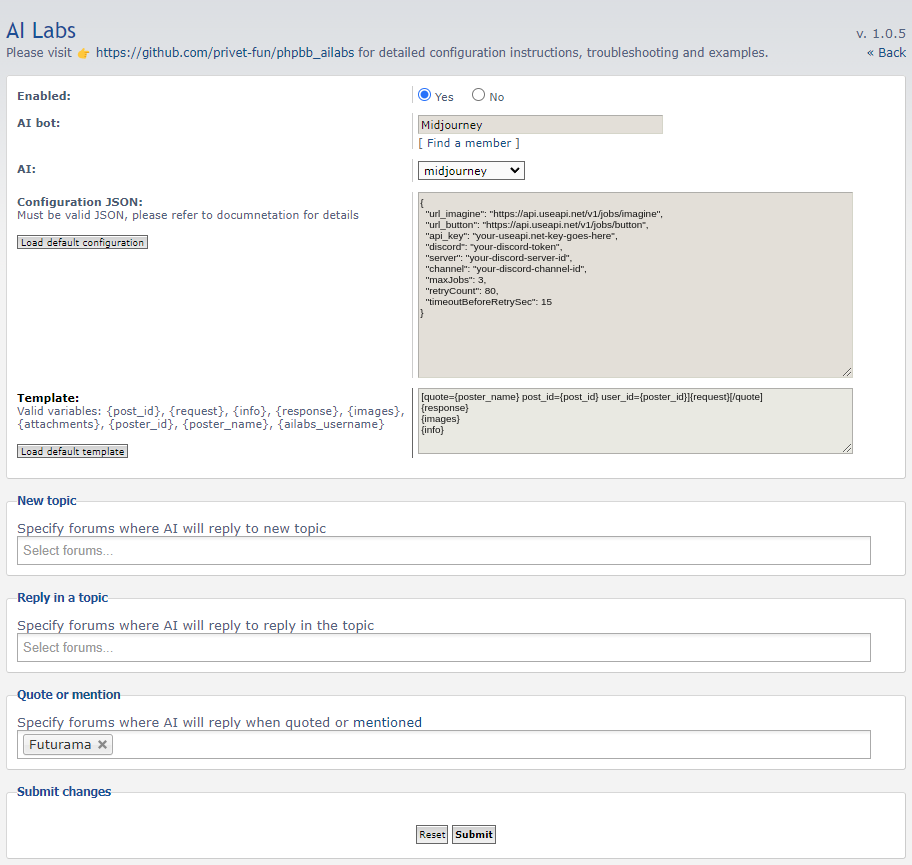
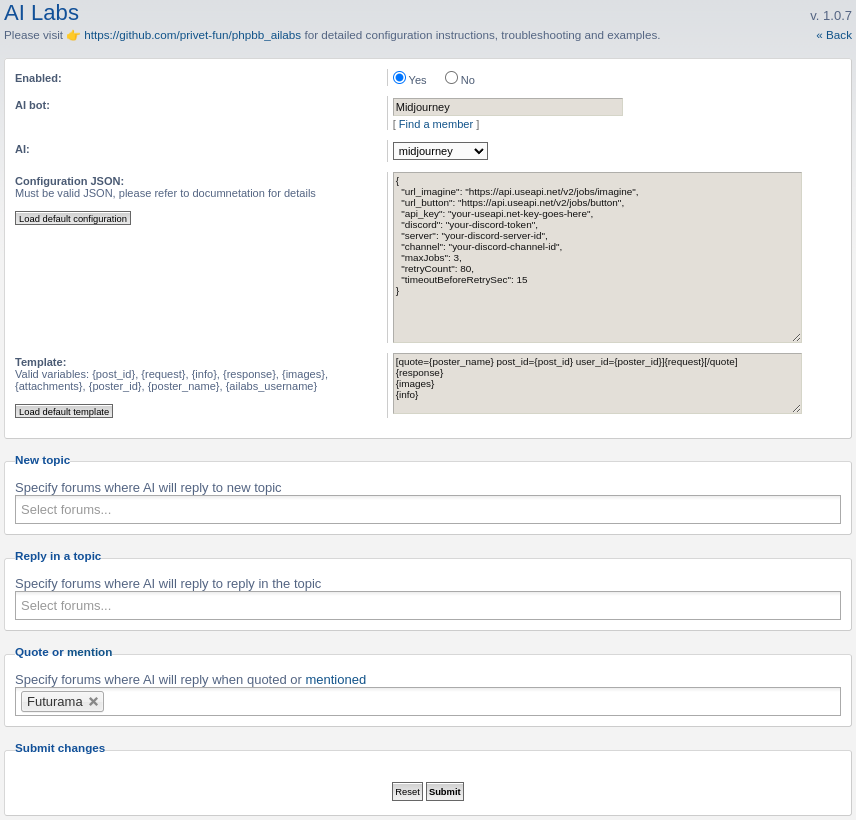
1.0.7

diff --git a/privet/ailabs/adm/style/acp_ailabs_body.html b/privet/ailabs/adm/style/acp_ailabs_body.html
@@ -44,8 +44,8 @@
 	<script type="text/javascript">
 		const defaultConfigs = {
 			"midjourney": {
-				"url_imagine": "https://api.useapi.net/v1/jobs/imagine",
-    			"url_button": "https://api.useapi.net/v1/jobs/button",
+				"url_imagine": "https://api.useapi.net/v2/jobs/imagine",
+    			"url_button": "https://api.useapi.net/v2/jobs/button",
 				"api_key": "your-useapi.net-key-goes-here",
     			"discord": "your-discord-token",
     			"server": "your-discord-server-id",

diff --git a/privet/ailabs/controller/midjourney.php b/privet/ailabs/controller/midjourney.php
@@ -27,8 +27,8 @@ config:
 
 {
     "api_key":                  "<useapi.net api token>",
-    "url_imagine":              "https://api.useapi.net/v1/jobs/imagine",
-    "url_button":               "https://api.useapi.net/v1/jobs/button",
+    "url_imagine":              "https://api.useapi.net/v2/jobs/imagine",
+    "url_button":               "https://api.useapi.net/v2/jobs/button",
     "discord":                  "<Discord token, required>",
     "server":                   "<Discord server id, required>",
     "channel":                  "<Discord channel id, required>",
@@ -92,7 +92,7 @@ class midjourney extends GenericController
 
                 $response_message_id = $this->process_response_message_id($json);
 
-                // https://useapi.net/docs/api-v1/jobs-button
+                // https://useapi.net/docs/api-v2/post-jobs-button
                 // HTTP 409 Conflict
                 // Button <U1 | U2 | U3 | U4> already executed by job <jobid>
                 if (!empty($response_message_id) && !empty($response_codes) && in_array(409, $response_codes)) {
@@ -127,7 +127,7 @@ class midjourney extends GenericController
 
         // Assume the worst
         $this->job['status'] = 'failed';
-        $this->job['response'] = $this->language->lang('AILABS_ERROR_CHECK_LOGS');
+        $this->job['response'] = !empty($json) && !empty($json['error']) ? '[color=#FF0000]' . $json['error'] . '[/color]' : $this->language->lang('AILABS_ERROR_CHECK_LOGS');
 
         if (!empty($json)) {
             if (!empty($json['status']))
@@ -149,7 +149,9 @@ class midjourney extends GenericController
                         $this->job['response'] = preg_replace('/<@(\d+)>/', '', $json['content']);
                         break;
                     case 422: // HTTP 422 Unprocessable Content - Moderated                    
-                        $this->job['response'] = $this->language->lang('AILABS_MJ_MODERATED');
+                        $this->job['response'] = 
+'[color=#FF0000]' . $json['error'] . '
+' . $json['errorDetails'] . '[/color]';
                         break;
                 }
         }
@@ -247,27 +249,39 @@ class midjourney extends GenericController
 
         if (!empty($parent_job)) {
             $log = json_decode($parent_job['log'], true);
+            $prompt = null;
+            $button = $request;
 
-            // https://useapi.net/docs/api-v1/jobs-button
+            $custom_zoom = 'Custom Zoom';
+            $custom_zoom_len = strlen($custom_zoom);
+            if (substr($request, 0, $custom_zoom_len) === $custom_zoom) {
+                $button = $custom_zoom;
+                $prompt = trim(substr($request, $custom_zoom_len));
+            }
+
+            // https://useapi.net/docs/api-v2/post-jobs-button
             if (
                 !empty($log) &&
                 !empty($log['response.json']) &&
                 !empty($log['response.json']['jobid']) &&
                 !empty($log['response.json']['buttons']) &&
-                in_array($request, $log['response.json']['buttons'], true)
+                in_array($button, $log['response.json']['buttons'], true)
             ) {
                 $payload = [
                     'jobid'     => $log['response.json']['jobid'],
-                    'button'    => $request,
+                    'button'    => $button,
                     'discord'   => $this->cfg->discord,
                     'maxJobs'   => $maxJobs,
                     'replyUrl'  => $url_callback,
                     'replyRef'  => $this->job_id,
                 ];
+
+                if (!empty($prompt))
+                    $payload += ['prompt' => $prompt];
             }
         }
 
-        // https://useapi.net/docs/api-v1/jobs-imagine
+        // https://useapi.net/docs/api-v2/post-jobs-imagine
         if (empty($payload)) {
             $payload = [
                 'prompt'                => $request,
@@ -299,8 +313,8 @@ class midjourney extends GenericController
 
         $count  = 0;
         $response = null;
-        // https://useapi.net/docs/api-v1/jobs-imagine
-        // https://useapi.net/docs/api-v1/jobs-button
+        // https://useapi.net/docs/api-v2/post-jobs-imagine
+        // https://useapi.net/docs/api-v2/post-jobs-button
         $url = empty($opts['jobid']) ? $this->cfg->url_imagine : $this->cfg->url_button;
 
         // Attempt to submit request for (retryCount * timeoutBeforeRetrySec) seconds.
@@ -310,8 +324,7 @@ class midjourney extends GenericController
             $response = $api->sendRequest($url, 'POST', $opts);
         } while (
             // 429: Maximum of xx jobs executing in parallel supported
-            // 504: Unable to lock Discord after xx attempts
-            (in_array(429, $api->responseCodes) || in_array(504, $api->responseCodes)) &&
+            in_array(429, $api->responseCodes) &&
             $count < $retryCount &&
             sleep($timeoutBeforeRetrySec) !== false
         );

diff --git a/privet/ailabs/language/ru/common.php b/privet/ailabs/language/ru/common.php
@@ -18,10 +18,9 @@ if (empty($lang) || !is_array($lang)) {
 }
 
 $lang = array_merge($lang, [
-	'AILABS_MJ_BUTTONS'				=> 'Ответьте, процитировав одну из поддерживаемых команд [size=70][url=https://docs.midjourney.com/docs/quick-start#8-upscale-or-create-variations]1[/url] [url=https://docs.midjourney.com/docs/quick-start#9-enhance-or-modify-your-image]2[/url][/size]: ',
+	'AILABS_MJ_BUTTONS'				=> 'Ответьте, процитировав одну из поддерживаемых команд [size=70][url=https://docs.midjourney.com/docs/quick-start#8-upscale-or-create-variations]1[/url] [url=https://docs.midjourney.com/docs/quick-start#9-enhance-or-modify-your-image]2[/url] [url=https://docs.midjourney.com/docs/zoom-out#custom-zoom]3[/url][/size]: ',
 	'AILABS_MJ_BUTTON_ALREADY_USED'	=> 'Команда %1s уже была [url=%2$s?p=%3$d#p%3$d]выполнена[/url]',
 	'AILABS_ERROR_CHECK_LOGS'		=> '[color=#FF0000]Ошибка. Лог содержит детальную информацию.[/color]',
-	'AILABS_MJ_MODERATED'			=> '[color=#FF0000]Запрос составлен неверно или подвергся модерации Midjourney.[/color]',
 	'AILABS_POSTS_DISCARDED'  		=> ', сообщения начиная с [url=%1$s?p=%2$d#p%2$d]этого[/url] не включены',
 	'AILABS_DISCARDED_INFO' 		=> '[size=75][url=%1$s?p=%2$d#p%2$d]Начало[/url] беседы из %3$d сообщений%4$s (%5$d токенов из %6$d использовано)[/size]',
 	'AILABS_THINKING' 				=> 'думает',

diff --git a/privet/ailabs/language/en/common.php b/privet/ailabs/language/en/common.php
@@ -18,10 +18,9 @@ if (empty($lang) || !is_array($lang)) {
 }
 
 $lang = array_merge($lang, [
-	'AILABS_MJ_BUTTONS'				=> 'Reply by quoting one of the supported actions [size=70][url=https://docs.midjourney.com/docs/quick-start#8-upscale-or-create-variations]1[/url] [url=https://docs.midjourney.com/docs/quick-start#9-enhance-or-modify-your-image]2[/url][/size]: ',
+	'AILABS_MJ_BUTTONS'				=> 'Reply by quoting one of the supported actions [size=70][url=https://docs.midjourney.com/docs/quick-start#8-upscale-or-create-variations]1[/url] [url=https://docs.midjourney.com/docs/quick-start#9-enhance-or-modify-your-image]2[/url] [url=https://docs.midjourney.com/docs/zoom-out#custom-zoom]3[/url][/size]: ',
 	'AILABS_MJ_BUTTON_ALREADY_USED'	=> 'Action %1s was already [url=%2$s?p=%3$d#p%3$d]executed[/url]',
 	'AILABS_ERROR_CHECK_LOGS'		=> '[color=#FF0000]Error. Please check logs.[/color]',
-	'AILABS_MJ_MODERATED'			=> '[color=#FF0000]Moderated or invalid prompt.[/color]',
 	'AILABS_POSTS_DISCARDED'  		=> ', posts starting from [url=%1$s?p=%2$d#p%2$d]this post[/url] were discarded',
 	'AILABS_DISCARDED_INFO' 		=> '[size=75][url=%1$s?p=%2$d#p%2$d]Beginning[/url] of a conversation containing %3$d posts%4$s (%5$d tokens of %6$d were used)[/size]',
 	'AILABS_THINKING' 				=> 'thinking',

diff --git a/privet/ailabs/migrations/v1x/release_1_0_7_schema.php b/privet/ailabs/migrations/v1x/release_1_0_7_schema.php
@@ -1,0 +1,39 @@
+<?php
+
+/**
+ *
+ * AI Labs extension
+ *
+ * @copyright (c) 2023, privet.fun, https://privet.fun
+ * @license GNU General Public License, version 2 (GPL-2.0)
+ *
+ */
+
+namespace privet\ailabs\migrations\v1x;
+
+class release_1_0_7_schema extends \phpbb\db\migration\migration
+{
+	static public function depends_on()
+	{
+		return array('\privet\ailabs\migrations\v1x\release_1_0_6_schema');
+	}
+
+	public function effectively_installed()
+	{
+		return isset($this->config['privet_ailabs_version']) && version_compare($this->config['privet_ailabs_version'], '1.0.7', '>=');
+	}
+
+	public function update_data()
+	{
+		return array(
+			array('config.update', array('privet_ailabs_version', '1.0.7')),
+		);
+	}
+
+	public function revert_data()
+	{
+		return array(
+			array('config.update', array('privet_ailabs_version', '1.0.6')),
+		);
+	}
+}

diff --git a/privet/ailabs/controller/scriptexecute.php b/privet/ailabs/controller/scriptexecute.php
@@ -64,7 +64,9 @@ class scriptexecute extends GenericController
                 // Make sure that exe is enabled in /etc/php/8.2/fpm/pool.d/phpbb_pool.conf file 
                 // See line php_admin_value[disable_functions] = 
                 unset($output);
-                // Code removed, see 1.0.5
+                // Uncomment this line if you are planning to use this controller.
+                // If was commented out to pass phpBB extension certification process.
+                // exec($execute, $output, $result_code);
             } catch (\Exception $e) {
                 $result->response = '{ "error" : "' . $e . '" }';
             }

diff --git a/privet/ailabs/README.md b/privet/ailabs/README.md
@@ -1,4 +1,4 @@
-# AI Labs v 1.0.6
+# AI Labs v 1.0.7
 
 Incorporate AI into your phpBB board and get ready for an exciting experience.  
 Currently supported Midjourney, ChatGPT, DALL-E (OpenAI) and Stable Diffusion (Stability AI).  
@@ -167,6 +167,16 @@ This extension is currently being actively developed. For communication, please 
 
 ## Changelog 
 
+* 1.0.7 December 26, 2023
+  - Updated the Midjourney Bot to support the v2 API from https://useapi.net  
+    Make sure to update your Midjourney bot [configuration](https://github.com/privet-fun/phpbb_ailabs/blob/main/privet/ailabs/docs/midjourney_setup.png):
+    ```   
+      "url_imagine": "https://api.useapi.net/v2/jobs/imagine",
+      "url_button": "https://api.useapi.net/v2/jobs/button",
+    ```
+  - All messages and warnings from the Midjourney Bot will now be relayed back
+  - [Custom Zoom](https://docs.midjourney.com/docs/zoom-out) support added
+  - Added support for Midjourney v6, including quoted text and new buttons 
 
 * 1.0.6 October 7, 2023
   - Minor internal changes to address phpBB extension certification
